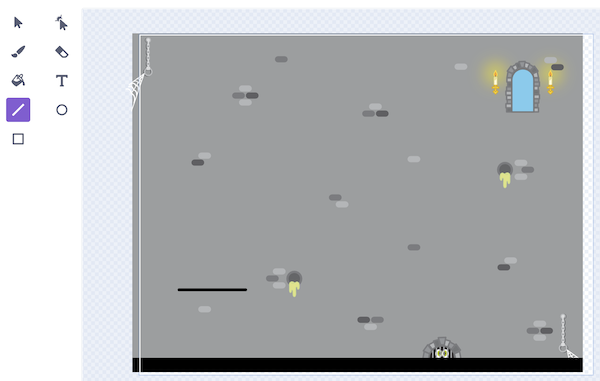
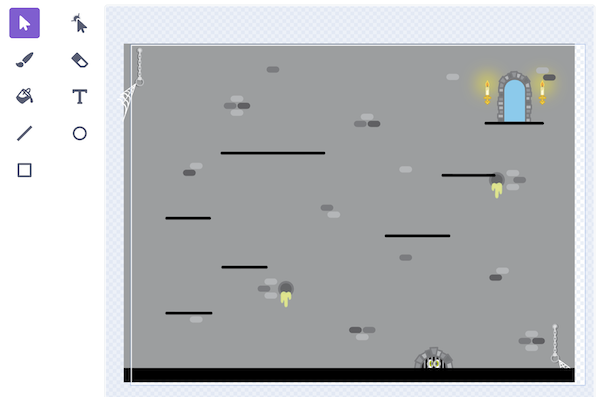
Completed the platformer instructions.

diff --git a/projects/platformer/index.md b/projects/platformer/index.md
@@ -57,9 +57,9 @@ repeat until <touching color (#78cdee)?>
 end
 ```
 
----
-
 * *How can you make gravity lower, like on the moon? Or higher, like on Jupiter?*
+
+---
 
 </section>
 <section markdown="1">
@@ -86,7 +86,7 @@ end
 
 ## Step 5: Add a block to fix the weird animation!
 
-Now the character doesn't fall through the floor, but they gradually float up which looks a bit weird! To fix this, we put this code inside a custom block.
+Now the character doesn't fall through the floor, but they gradually float up which looks a bit weird! To fix this, we put this code inside a custom block called *put on ground*.
 
 ⚠ **Very important**: make sure you select *Run without screen refresh* when you create the custom block. This will mean that the character moves straight up without the weird animation.
 
@@ -111,7 +111,7 @@ end
 
 ## Step 6: Add a variable called *on ground?*
 
-We are going to add a variable called *on ground?*. This is going to be set to **1** if the character is on the ground or **0** if the character is jumping or falling.
+We are going to add a variable called *on ground?*. This is going to be set to **1** if the character is on the ground or **0** if the character is jumping or falling. Remember to untick the variable so that it doesn't appear on the screen.
 
 After you set the *jump speed* at the start of the script, you also need to set *on ground?* like this:
 
@@ -146,18 +146,33 @@ if <<key (up arrow v) pressed?> and <(on ground?) = (1)>> then
 end
 ```
 
-This means that the character will only jump if it is on the ground.
-
----
+This means that the character will only jump if it is on the ground. Try pressing the *up arrow* to see the character jumping.
 
 * *Can you make the character jump higher or lower?*
+
+---
 
 </section>
 <section markdown="1">
 
-## Step 8: Make the character move left and right
+## Step 8: Add a variable called *run speed*
 
-Next we need to be able to move the character left and right. To do this, add this code inside the *repeat until* loop:
+We also want the character to run left and right. To do this, we first need a new variable called *run speed*. As before, untick the variable so that it doesn't show on the screen.
+
+We want to set *run speed* to **0** when the game starts:
+
+```scratch
+set [run speed v] to (0)
+```
+
+---
+
+</section>
+<section markdown="1">
+
+## Step 9: Make the character run left and right
+
+Now add this code inside the *repeat until* loop:
 
 ```scratch
 if <key (left arrow v) pressed?> then
@@ -168,16 +183,22 @@ if <key (right arrow v) pressed?> then
 end
 ```
 
----
+And we need to add an extra line right at the top of the *repeat until* loop so that the character runs according to the *run speed*:
 
-* *Can you make the character look to the left or right when they are moving?*
+```scratch
+change x by (run speed)
+```
+
+* *Can you make the character look to the left or right when they are running?*
+
+---
 
 </section>
 <section markdown="1">
 
-## Step 9: Make the character slow down
+## Step 10: Make the character slow down
 
-Right now, the character slides left and right like they are on an ice rink. We need to add some friction to slow the character down! 
+Right now, the character slides left and right like they are on an ice rink! We need to add some friction to slow the character down.
 
 Add this code right at the end of the *repeat until* loop:
 
@@ -185,14 +206,16 @@ Add this code right at the end of the *repeat until* loop:
 set [run speed v] to ((run speed) * (0.7))
 ```
 
+* *How can you make the friction stronger and weaker?*
+
 ---
 
 </section>
 <section markdown="1">
 
-## Step 10: Add some platforms
+## Step 11: Add some platforms
 
-Finally, we need to add some platforms so that the character can reach the door to complete the game. You can add them anywhere you want, but they must match the colour you used in the *touching colour* check.
+Finally, we need to add some platforms to the backdrop so that the character can reach the door to complete the game. You can add them anywhere you want, but they must match the colour you used in the *touching color* check.
 
 ![Step 10 - add platforms](img/step-10-01.png)
 
@@ -203,6 +226,7 @@ Finally, we need to add some platforms so that the character can reach the door 
 
 ## Challenges
 
-* *Can you add more levels?*
+* *Can you add more levels to the game?*
+* *Can you add some obstacles that make you go back to the start of the level?*
 
 </section>
